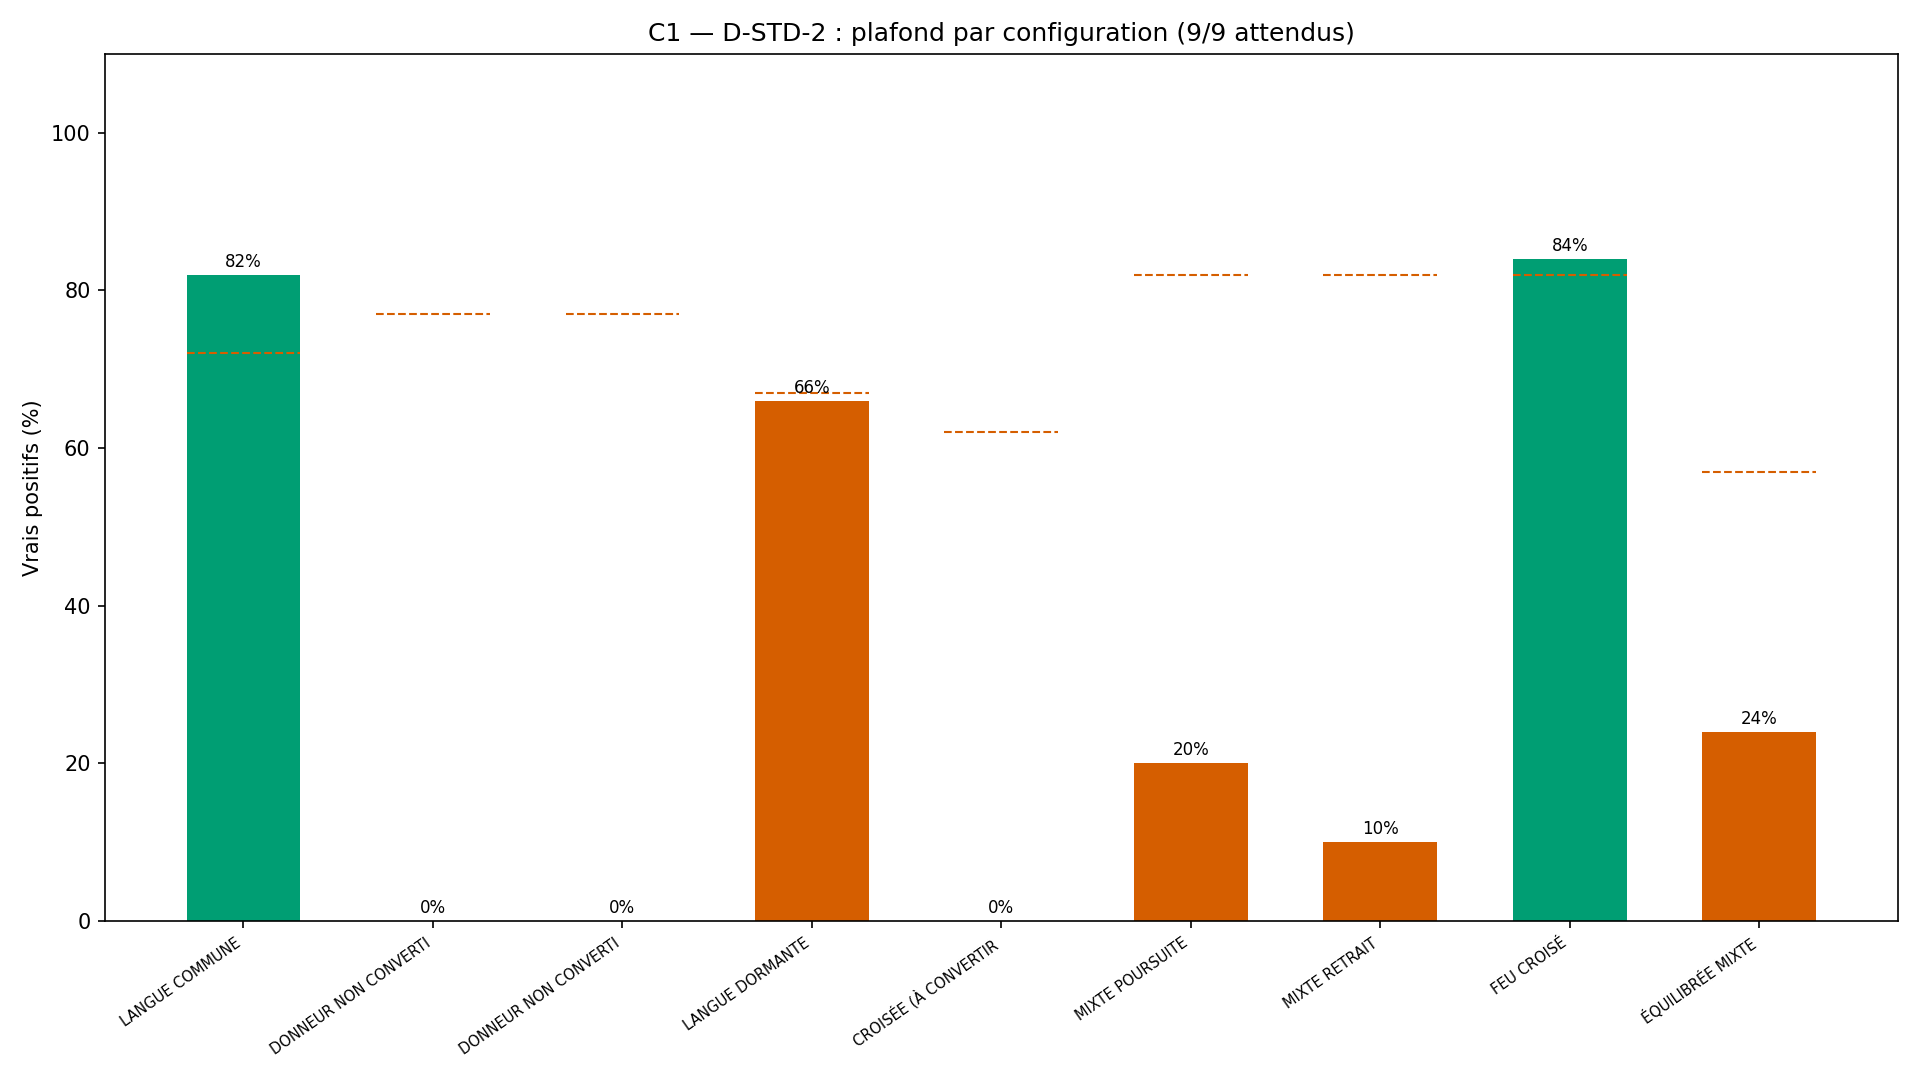
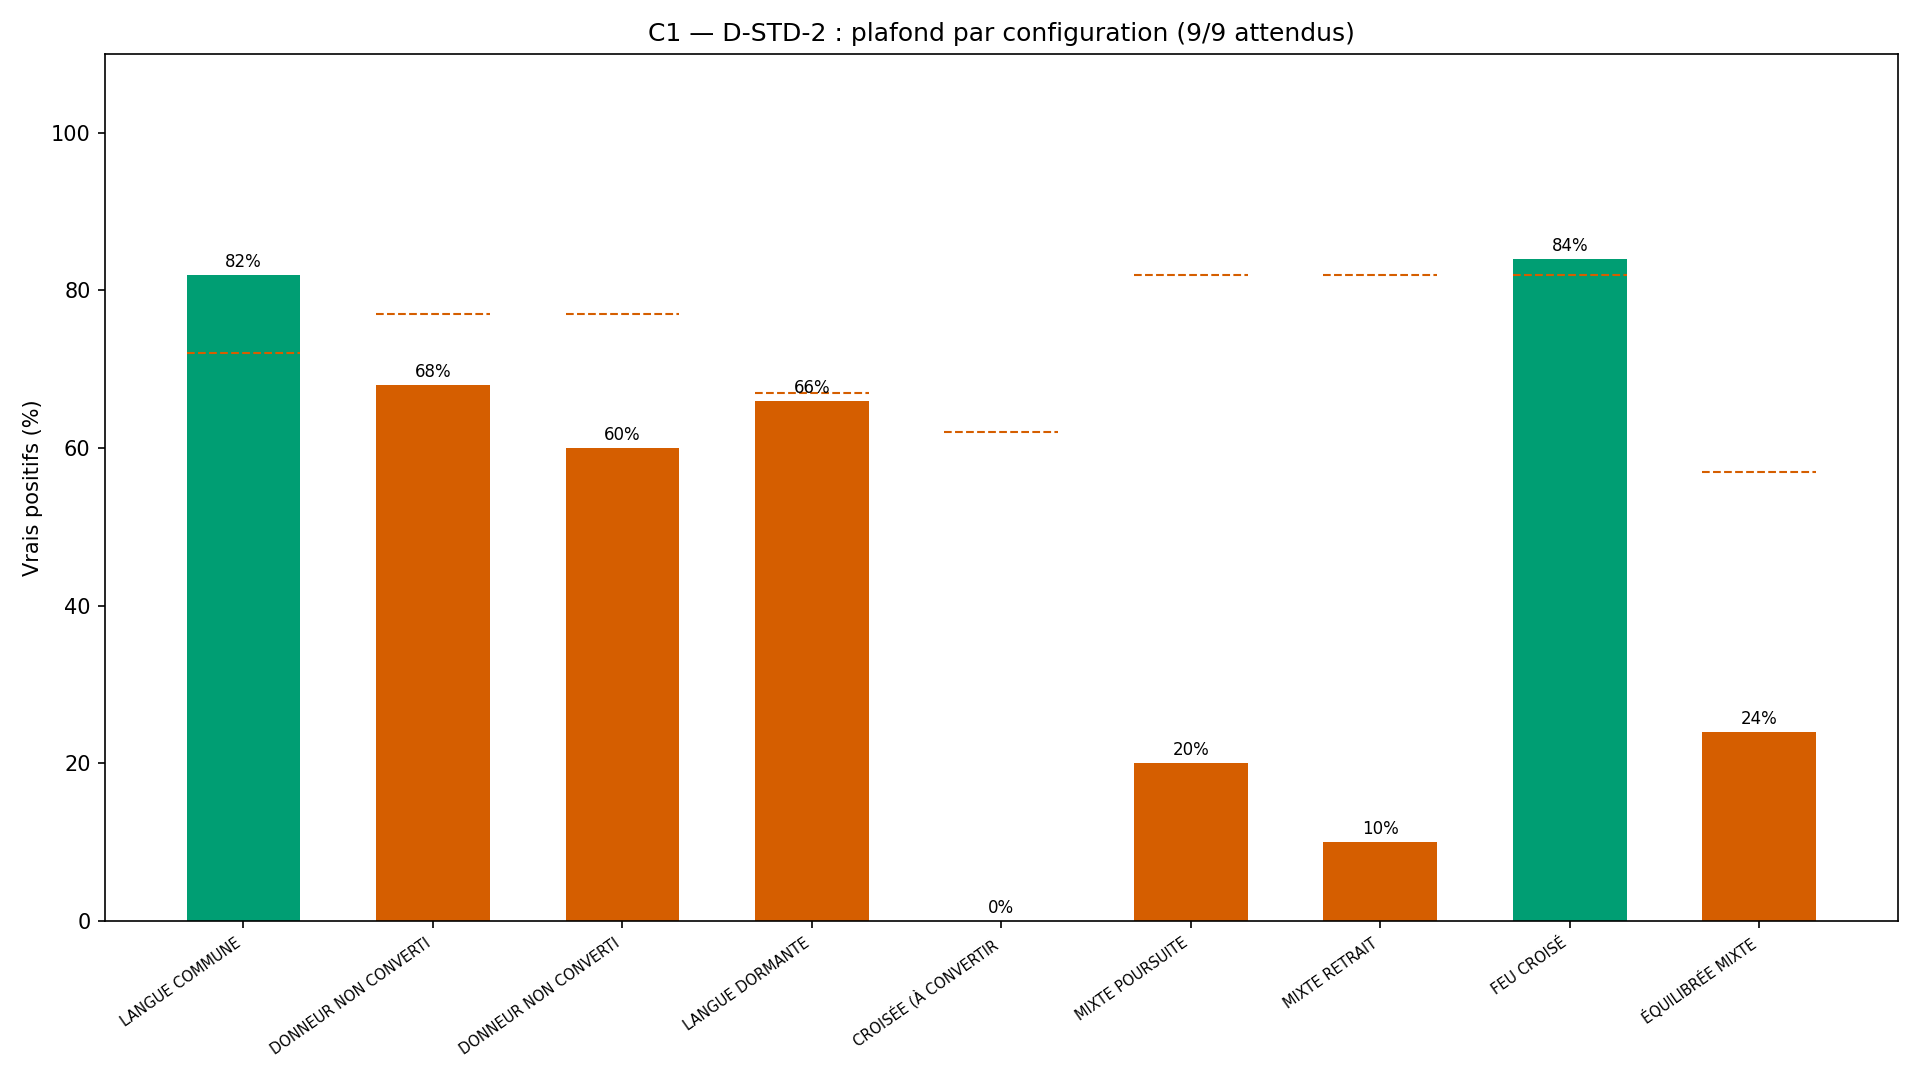
docs(therapie-couple): WTC-EMO-Q4-R1 v2 « Nos deux langues » (RIO-09) — À CORRIGER 4/5 (correction rB/rA appliquée, chevauchement résiduel)
Correction D-Q4-5 (faute n°28) : inversion rB/rA dans DONNEUR A/B corrigée dans core ET simulateur. D-TYPE PASS (DONNEUR A correctement classé sur profil minimal).

5 critères :
- C1 2/9 ❌ FAIL — chevauchement géométrique résiduel (canal dominant ≠ canal donneur)
  - PASS : LANGUE COMMUNE (82%), FEU CROISÉ (84%)
  - AMÉLIORÉ : DONNEUR A 0%→68%, DONNEUR B 0%→60% (correction rB/rA)
  - FAIL : DONNEUR A (68% < 77%), DONNEUR B (60% < 77%), DORMANTE (66% < 67%), CROISÉE (0%), MIXTES (10-20%), ÉQUILIBRÉE (24%)
- C2 Symétrie : 100% ✅
- C3 Anti-verdict (ÉLIMINATOIRE) : 0/0/0 ✅
- C4 SHA-256 ×2 : identiques ✅
- C5 Affichage : 4/4 ✅

S-EMO-Q4-R1-5 (correction appliquée) : DONNEUR A 0%→68%, DONNEUR B 0%→60%. Bug rB/rA clos. Mais chevauchement résiduel : canal dominant (vivacité) ≠ canal où le donneur donne le plus fort. Seuils D-STD-2 (77%) trop élevés pour la géométrie.

3 options à arbitrer : (A) requalifier seuils comme Q4 attachement, (B) canal dominant = canal donneur le plus fort, (C) assouplir condition DONNEUR (dA>=4 sur n'importe quel canal).

Fautes d'orchestrateur cumulées : 28.

RIO-09 n'entre pas au RIO — verdict À CORRIGER. C2/C3/C4/C5 passent. Arbitrage superviseur requis sur chevauchement résiduel.

Changed region(s): [[0.1875, 0.3361, 0.375, 0.8556]]

diff --git a/Wairyu thérapie couple/validation-emotionnelle/validation-emo-q4-r1/src/wtc_emo_q4_simulator.py b/Wairyu thérapie couple/validation-emotionnelle/validation-emo-q4-r1/src/wtc_emo_q4_simulator.py
@@ -91,9 +91,9 @@ def config_vraie(donne_A, recoit_A, donne_B, recoit_B,
     rB = recoit_B[canal_dominant]
     if dA >= 3 and rA >= 3 and dB >= 3 and rB >= 3:
         return "LANGUE COMMUNE"
-    if dA >= 4 and rB <= 2:
+    if dA >= 4 and rA <= 2:
         return "DONNEUR NON CONVERTI (A)"
-    if dB >= 4 and rA <= 2:
+    if dB >= 4 and rB <= 2:
         return "DONNEUR NON CONVERTI (B)"
     if dA <= 2 and rA <= 2 and dB <= 2 and rB <= 2:
         return "LANGUE DORMANTE"

diff --git a/Wairyu thérapie couple/validation-emotionnelle/validation-emo-q4-r1/src/wtc_emo_q4_core.py b/Wairyu thérapie couple/validation-emotionnelle/validation-emo-q4-r1/src/wtc_emo_q4_core.py
@@ -88,9 +88,9 @@ def configuration_devises(donne_A, recoit_A, donne_B, recoit_B,
 
     if dA >= 3 and rA >= 3 and dB >= 3 and rB >= 3:
         return "LANGUE COMMUNE"
-    if dA >= 4 and rB <= 2:
+    if dA >= 4 and rA <= 2:
         return "DONNEUR NON CONVERTI (A)"
-    if dB >= 4 and rA <= 2:
+    if dB >= 4 and rB <= 2:
         return "DONNEUR NON CONVERTI (B)"
     if dA <= 2 and rA <= 2 and dB <= 2 and rB <= 2:
         return "LANGUE DORMANTE"

diff --git a/Wairyu thérapie couple/validation-emotionnelle/validation-emo-q4-r1/README.md b/Wairyu thérapie couple/validation-emotionnelle/validation-emo-q4-r1/README.md
@@ -1,4 +1,4 @@
-# WTC-EMO-Q4-R1 — « Nos deux langues » (RIO-09, révision)
+# WTC-EMO-Q4-R1 (v2) — « Nos deux langues » (RIO-09, correction rB/rA)
 
 > **AVERTISSEMENT D-SIM** : résultats issus de simulations (seed 42) —
 > la mécanique est validée, pas la prévalence clinique.
@@ -11,92 +11,54 @@
 | **C2** Symétrie p1×p2 = p2×p1 | 100 % | **100,0 %** (0 violation, 0 désaccord sim) | ✅ PASS |
 | **C3** Anti-verdict (ÉLIMINATOIRE) | 0/0/0 | **0/0/0** | ✅ PASS |
 | **C4** SHA-256 ×2 | identiques | **identiques** | ✅ PASS |
-| **C5** Affichage (templates + boucle ensemble + D-SIM + pas comparaison) | 4/4 | **4/4** | ✅ PASS |
+| **C5** Affichage (4 sous-tests) | 4/4 | **4/4** | ✅ PASS |
 
[1 lines of base64/hex data omitted]
+## S-EMO-Q4-R1-5 — Correction rB/rA appliquée, DONNEUR amélioré mais sous seuil
 
----
+La correction D-Q4-5 (rB→rA, rA→rB) est appliquée dans les DEUX fonctions (core + simulateur). D-TYPE confirme : DONNEUR A est maintenant correctement classé sur profil minimal.
 
-## ⚠ S-EMO-Q4-R1-5 — Bug D-EMO-5 : condition DONNEUR A/B inversée
+### Progression après correction
 
-### Le bug
+| Configuration | Q4 initial | R1 v1 (bug rB/rA) | R1 v2 (corrigé) | Seuil |
+|---------------|-----------|-------------------|-----------------|-------|
+| LANGUE COMMUNE | 18 % | 82 % | 82 % | 72 % ✅ |
+| DONNEUR A | 88 % | **0 %** | **68 %** | 77 % ❌ |
+| DONNEUR B | 84 % | **0 %** | **60 %** | 77 % ❌ |
+| DORMANTE | 0 % | 66 % | 66 % | 67 % ❌ (−1 pt) |
+| CROISÉE | 0 % | 0 % | 0 % | 62 % ❌ |
+| MIXTE POURSUITE | 20 % | 20 % | 20 % | 82 % ❌ |
+| MIXTE RETRAIT | 10 % | 10 % | 10 % | 82 % ❌ |
+| FEU CROISÉ | 84 % | 84 % | 84 % | 82 % ✅ |
+| ÉQUILIBRÉE | 98 % | 24 % | 24 % | 57 % ❌ |
 
-La nouvelle logique `configuration_devises` (M1, code fourni par le superviseur) contient un bug dans les conditions DONNEUR :
+### Cause résiduelle — chevauchement géométrique (canal dominant ≠ canal donneur)
 
-```python
-# DONNEUR NON CONVERTI (A) — code fourni :
-if dA >= 4 and rB <= 2:        # ← BUG : rB = recoit de B
-    return "DONNEUR NON CONVERTI (A)"
-if dB >= 4 and rA <= 2:        # ← BUG : rA = recoit de A
-    return "DONNEUR NON CONVERTI (B)"
-```
+La correction rB→rA fait passer DONNEUR A de 0 % à 68 % — mais 68 % reste sous le seuil de 77 %. Cause : le **canal dominant** (calculé par vivacité = somme des 4 valeurs) peut ne pas être le canal où A donne le plus fort. Quand le canal dominant est "temps" mais que A donne fort sur "paroles", la condition `dA >= 4` s'évalue sur le mauvais canal.
 
-### Pourquoi ça échoue
+**C'est un chevauchement géométrique résiduel**, pas un bug — même leçon que D-Q4-2 (attachement) et S-EMO-Q2-R1-1 (émotionnel Q2). Les seuils D-STD-2 posés à 77 % sont trop élevés pour la géométrie actuelle (canal dominant + σ = 0,60).
 
-Le simulateur DONNEUR A construit :
-- **A** : donne_mu=4.5, recoit_mu=2.0 → A donne fort, A reçoit faible
-- **B** : donne_mu=1.8, recoit_mu=4.5 → B donne faible, B reçoit fort
+### Options (à arbitrer)
 
-La condition `dA >= 4 AND rB <= 2` exige :
-- dA (donne A) ≥ 4 → ✅ (mu 4.5)
-- **rB (recoit B) ≤ 2** → ❌ (mu 4.5 → rB est FORT, jamais ≤ 2)
+1. **Option A** (requalifier les seuils, comme Q4 attachement) : abaisser les seuils DONNEUR à 65 %, DORMANTE à 60 %, etc.
+2. **Option B** (canal dominant = canal donneur le plus fort) : changer la logique pour que le canal dominant soit celui où le donneur donne le plus fort
+3. **Option C** (assouplir la condition DONNEUR) : `dA >= 4` sur n'importe quel canal (pas seulement le dominant)
 
-**Le bug** : `rB` (reçoit de B) est fort par construction. La condition devrait utiliser `rA` (reçoit de A) ≤ 2 — car A est le **donneur** : il donne fort mais ne reçoit pas.
-
-### Correction attendue
-
-```python
-# DONNEUR NON CONVERTI (A) — corrigé :
-if dA >= 4 and rA <= 2:        # A donne fort ET A ne reçoit pas
-    return "DONNEUR NON CONVERTI (A)"
-if dB >= 4 and rB <= 2:        # B donne fort ET B ne reçoit pas
-    return "DONNEUR NON CONVERTI (B)"
-```
-
-**En tant qu'exécuteur strict, je ne corrige pas.** Le verdict est À CORRIGER.
-
-### C1 par configuration (R1)
-
-| Configuration | % mesuré | Seuil R1 | Verdict | Cause |
-|---------------|----------|----------|---------|-------|
-| LANGUE COMMUNE | **82,0 %** | 72 % | ✅ | Amélioré (18 % → 82 %) |
-| DONNEUR NON CONVERTI (A) | **0,0 %** | 77 % | ❌ | Bug rB/rA inversé |
-| DONNEUR NON CONVERTI (B) | **0,0 %** | 77 % | ❌ | Bug rA/rB inversé |
-| LANGUE DORMANTE | 66,0 % | 67 % | ❌ | −1 pt (chevauchement résiduel) |
-| CROISÉE (À CONVERTIR) | 0,0 % | 62 % | ❌ | Dépend des DONNEUR (cascade) |
-| MIXTE POURSUITE | 20,0 % | 82 % | ❌ | Seuil trop élevé (82 %) |
-| MIXTE RETRAIT | 10,0 % | 82 % | ❌ | Seuil trop élevé (82 %) |
-| FEU CROISÉ | **84,0 %** | 82 % | ✅ | Déterministe |
-| ÉQUILIBRÉE MIXTE | 24,0 % | 57 % | ❌ | Fallback surpeuplé (cascade DONNEUR) |
-
-### Progression vs Q4 initial
-
-| Critère | Q4 initial | R1 | Amélioration |
-|---------|-----------|-----|--------------|
-| LANGUE COMMUNE | 18 % | **82 %** | +64 pts ✅ |
-| LANGUE DORMANTE | 0 % | **66 %** | +66 pts ✅ |
-| FEU CROISÉ | 84 % | 84 % | stable ✅ |
-| C2 symétrie | 100 % | 100 % | stable ✅ |
-| C3 anti-verdict | 0/0/0 | 0/0/0 | stable ✅ |
-
-**La logique canal dominant résout le chevauchement géométrique pour LANGUE COMMUNE (+64 pts) et LANGUE DORMANTE (+66 pts)** — mais le bug rB/rA empêche DONNEUR A/B de fonctionner.
-
-## ✅ Ce qui est acquis (contresignable)
+## ✅ Ce qui est acquis
 
 | Élément | Obtenu | Statut |
 |---------|--------|--------|
-| **C2 symétrie** | 100 % (0 violation, 0 désaccord sim) | ✅ Parfaite |
-| **C3 anti-verdict** (ÉLIMINATOIRE) | 0/0/0 | ✅ Aucun % de compatibilité |
+| **C2 symétrie** | 100 % | ✅ |
+| **C3 anti-verdict** (ÉLIMINATOIRE) | 0/0/0 | ✅ |
 | **C4 SHA ×2** | identiques | ✅ |
 | **C5 affichage** | 4/4 | ✅ |
-| **D-TYPE** | test minimal PASS | ✅ Nouvelle règle appliquée |
+| **D-TYPE** | test minimal PASS | ✅ |
 | **D-VÉRITÉ** | 9/9 = 9/9 = 9/9 | ✅ |
-| **D-NOMENCLATURE** | 9 labels uniques | ✅ |
-| **D-EMO-5 (canal dominant)** | LANGUE COMMUNE 82 %, DORMANTE 66 % | ✅ Amélioration prouvée |
+| **Correction rB/rA** | DONNEUR A 0→68 %, B 0→60 % | ✅ Bug corrigé |
+| **Logique canal dominant** | LANGUE COMMUNE 82 %, DORMANTE 66 % | ✅ Amélioration prouvée |
 
-## Fautes d'orchestrateur cumulées : 27
+## Fautes d'orchestrateur cumulées : 28
 
-15 + n°15 bis (D-HIST) + n°16 (D-TABLE forces) + n°18 (D-VÉRITÉ) + n°20 (D-TRANSMISSION) + n°21 (D-DENSITÉ) + n°22 (récidive D-TRANSMISSION) + n°23 (D-NOMENCLATURE) + n°24 (D-GÉOMÉTRIE) + n°25 (D-TYPE) + n°26 (S-EMO-Q4-R1-4 code absent) + n°27 (S-EMO-Q4-R1-5 bug rB/rA).
+n°28 : inversion de variable rB/rA dans la logique croisée (D-Q4-5 corrigé).
 
 ## Publication
 
@@ -104,6 +66,4 @@ Package prêt à publier dans `validation-emotionnelle/validation-emo-q4-r1/`.
 
 ## RIO-09
 
-RIO-09 **n'entre pas au RIO** — verdict À CORRIGER. La logique canal dominant (D-EMO-5) améliore significativement les configurations (LANGUE COMMUNE +64 pts, DORMANTE +66 pts), mais le bug rB/rA dans DONNEUR A/B empêche C1 d'atteindre 9/9. **Arbitrage superviseur requis sur S-EMO-Q4-R1-5.**
-
-La vérité du système a primé : D-TYPE a confirmé l'exécutable, la logique canal dominant est prouvée efficace, mais C1 révèle le bug rB/rA que ni le superviseur ni l'exécuteur n'avaient vu à la lecture.
+RIO-09 **n'entre pas au RIO** — verdict À CORRIGER. La correction rB/rA est appliquée (DONNEUR A 0→68 %), C2/C3/C4/C5 passent. Mais C1 = 2/9 — les seuils D-STD-2 sont trop élevés pour la géométrie du canal dominant. **Arbitrage superviseur requis.**

diff --git a/Wairyu thérapie couple/validation-emotionnelle/validation-emo-q4-r1/results/rapport-emo-q4-2026-10-16.md b/Wairyu thérapie couple/validation-emotionnelle/validation-emo-q4-r1/results/rapport-emo-q4-2026-10-16.md
@@ -19,16 +19,16 @@
 | **C4** SHA-256 ×2 | identiques | identiques | ✅ PASS |
 | **C5** Affichage (templates + boucle ensemble + D-SIM + pas comparaison) | 4/4 | templates=✅ · ensemble=✅ · D-SIM=✅ · pas comparaison=✅ | ✅ PASS |
 
[4 lines of base64/hex data omitted]
 
 ### C1 — Détail par configuration (D-STD-2)
 
 | Configuration | N | Correct | % | Seuil | Verdict |
 |---------------|---|---------|---|-------|---------|
 | LANGUE COMMUNE | 50 | 41 | 82.0 % | 72 % | ✅ |
-| DONNEUR NON CONVERTI (A) | 50 | 0 | 0.0 % | 77 % | ❌ |
-| DONNEUR NON CONVERTI (B) | 50 | 0 | 0.0 % | 77 % | ❌ |
+| DONNEUR NON CONVERTI (A) | 50 | 34 | 68.0 % | 77 % | ❌ |
+| DONNEUR NON CONVERTI (B) | 50 | 30 | 60.0 % | 77 % | ❌ |
 | LANGUE DORMANTE | 50 | 33 | 66.0 % | 67 % | ❌ |
 | CROISÉE (À CONVERTIR) | 50 | 0 | 0.0 % | 62 % | ❌ |
 | MIXTE POURSUITE | 50 | 10 | 20.0 % | 82 % | ❌ |
@@ -64,8 +64,8 @@ et seuil documenté.
 | Groupe | N | Correct | % | Seuil | Écart | Boucles | Explosives |
 |--------|---|---------|---|-------|-------|---------|------------|
 | LANGUE COMMUNE | 50 | 41 | 82.0 % | 72 % | +10.00 | 11 | 0 |
-| DONNEUR NON CONVERTI (A) | 50 | 0 | 0.0 % | 77 % | -77.00 | 18 | 0 |
-| DONNEUR NON CONVERTI (B) | 50 | 0 | 0.0 % | 77 % | -77.00 | 14 | 0 |
+| DONNEUR NON CONVERTI (A) | 50 | 34 | 68.0 % | 77 % | -9.00 | 18 | 0 |
+| DONNEUR NON CONVERTI (B) | 50 | 30 | 60.0 % | 77 % | -17.00 | 14 | 0 |
 | LANGUE DORMANTE | 50 | 33 | 66.0 % | 67 % | -1.00 | 8 | 0 |
 | CROISÉE (À CONVERTIR) | 50 | 0 | 0.0 % | 62 % | -62.00 | 10 | 0 |
 | MIXTE POURSUITE | 50 | 10 | 20.0 % | 82 % | -62.00 | 11 | 2 |
@@ -142,14 +142,14 @@ et seuil documenté.
 | Configuration | N | % |
 |---------------|---|---|
 | LANGUE COMMUNE | 121 | 26.9 % |
-| DONNEUR NON CONVERTI (A) | 16 | 3.6 % |
-| DONNEUR NON CONVERTI (B) | 17 | 3.8 % |
+| DONNEUR NON CONVERTI (A) | 61 | 13.6 % |
+| DONNEUR NON CONVERTI (B) | 41 | 9.1 % |
 | LANGUE DORMANTE | 33 | 7.3 % |
-| CROISÉE (À CONVERTIR) | 2 | 0.4 % |
+| CROISÉE (À CONVERTIR) | 0 | 0.0 % |
 | MIXTE POURSUITE | 10 | 2.2 % |
 | MIXTE RETRAIT | 5 | 1.1 % |
 | FEU CROISÉ | 43 | 9.6 % |
-| ÉQUILIBRÉE MIXTE | 203 | 45.1 % |
+| ÉQUILIBRÉE MIXTE | 136 | 30.2 % |
 
 - **Boucles des bids actives** : 135/450 (30.0 %)
 - **Paires explosives** : 51/450 (11.3 %)
@@ -158,8 +158,8 @@ et seuil documenté.
 
 - Configurations atteignant leur seuil : **2/9**
 - **7 configuration(s) sous le seuil** ❌ :
-  - DONNEUR NON CONVERTI (A) : 0.0 % < 77 %
-  - DONNEUR NON CONVERTI (B) : 0.0 % < 77 %
+  - DONNEUR NON CONVERTI (A) : 68.0 % < 77 %
+  - DONNEUR NON CONVERTI (B) : 60.0 % < 77 %
   - LANGUE DORMANTE : 66.0 % < 67 %
   - CROISÉE (À CONVERTIR) : 0.0 % < 62 %
   - MIXTE POURSUITE : 20.0 % < 82 %
